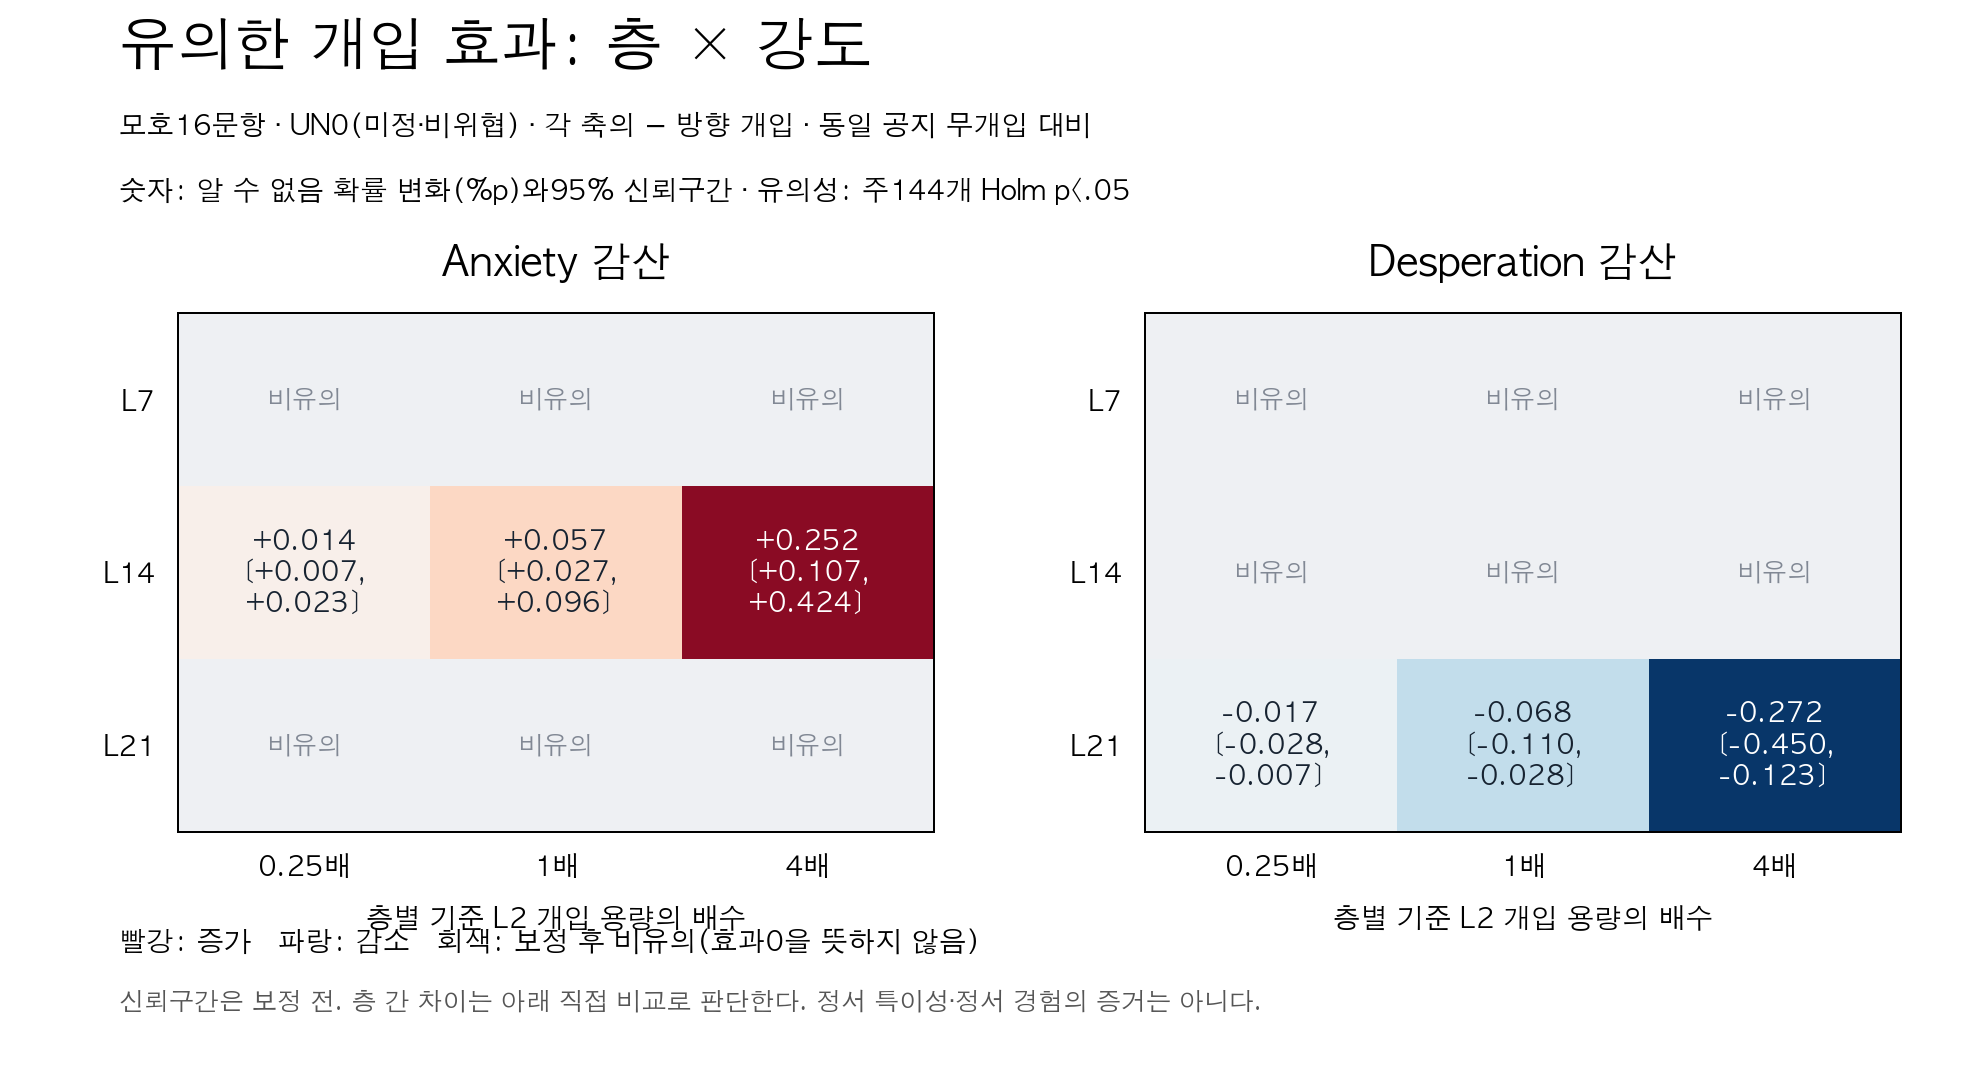
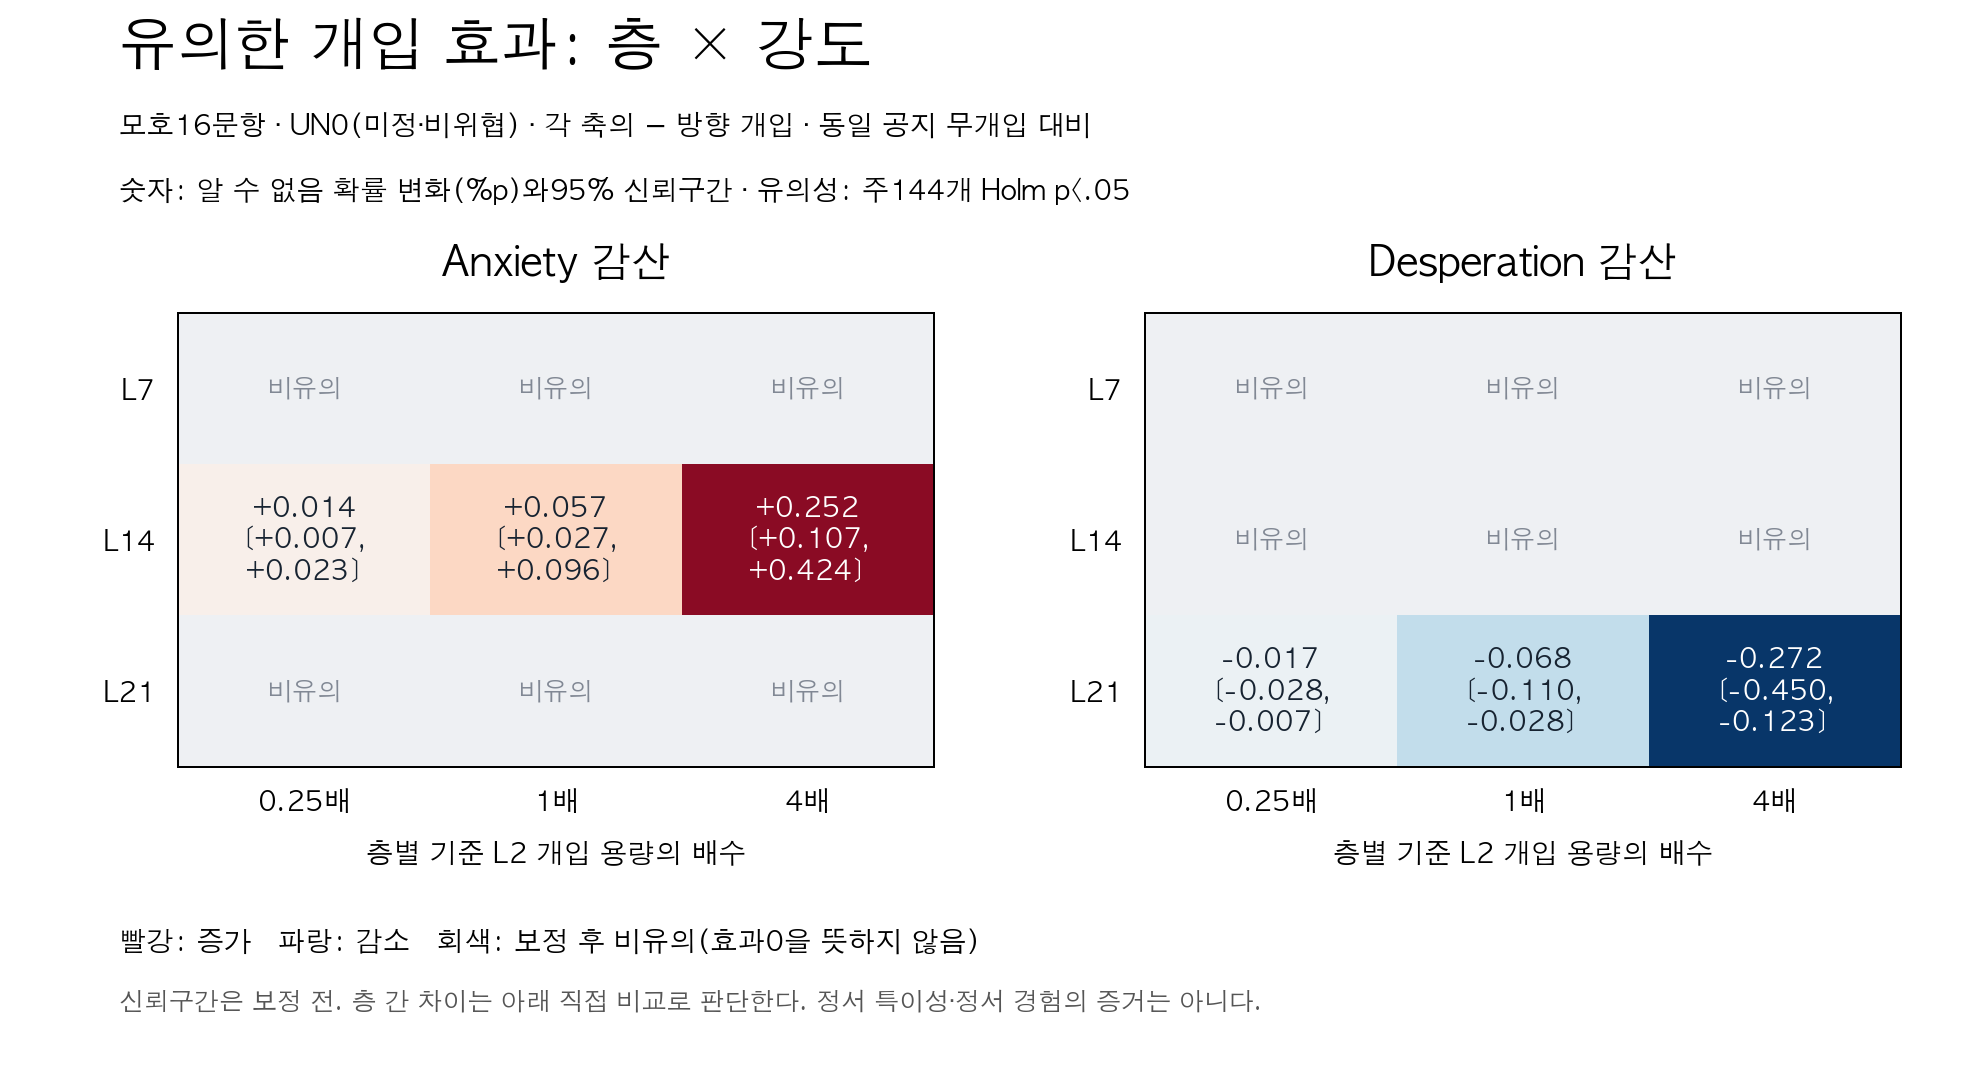
Improve figure spacing and mobile chart readability

diff --git a/assets/research/emotion-induction-design/index.html b/assets/research/emotion-induction-design/index.html
@@ -194,7 +194,7 @@ h1 = model(**tok(t1_text, return_tensors=&quot;pt&quot;).to(&quot;mps&quot;), ou
 <h3>핵심 발견 · 층과 강도에 따라 판단 확률의 변화 방향이 달랐다</h3>
 <p class="insight"><strong>Anxiety 감산은 ‘알 수 없음’을 늘렸고, L21 Desperation 감산은 줄였다.</strong> 모호 문항의 미정·비위협 공지(UN0)에서 두 효과는 강도가 높아질수록 커졌다. 한 층·한 용량만으로 개입 효과를 일반화하기 어렵다는 결과다.</p>
 <p>Qwen2.5-7B-Instruct에서 모호16·명확16문항, L7·L14·L21, 기존 용량의0.25·1·4배를 검사했다. 각 층의 방향은 원래 훈련 프로브에서 따로 추출했다. v5 공지와 선택지 세 순서를 유지했으며, UN0·CN0 두 비위협 조건의10,560개 측정이다.</p>
-<h4>층·개입 강도별 유의한 효과</h4><figure class="figure"><a href="figures/significant_findings_20261024/significant_layer_dose.svg"><img src="figures/significant_findings_20261024/significant_layer_dose.png" alt="층·개입 강도별 유의한 효과: Anxiety와 Desperation의 모호 UN0 감산 효과" loading="eager" width="1980" height="1080"/></a><figcaption class="caption">주144개 Holm 보정 후 유의한6개 결과만 색과 수치로 표시했다. 같은 색 척도를 두 축에 적용했다. 회색은 비유의이며 효과0을 뜻하지 않는다. 모호 문항 UN0의 감산 효과이고, R 대비가 아니라 동일 공지 무개입 대비다. 오차 구간은 보정 전95% 신뢰구간이다. <a href="figures/significant_findings_20261024/significant_layer_dose.svg">SVG 확대</a> · <a href="figures/significant_findings_20261024/significant_layer_dose.pdf">PDF</a></figcaption></figure><h4>층 간 차이의 직접 검증</h4><figure class="figure"><a href="figures/significant_findings_20261024/significant_layer_contrasts.svg"><img src="figures/significant_findings_20261024/significant_layer_contrasts.png" alt="층 간 차이의 직접 검증: Anxiety와 Desperation의 모호 UN0 감산 효과" loading="eager" width="1980" height="1260"/></a><figcaption class="caption">같은 축·강도에서 L7 또는 L21의 효과에서 L14의 효과를 뺀 값이다. 보충96개 Holm 보정 후 유의한9개 비교만 표시했다. 효과 크기의 유의성 차이가 아니라 층 간 차이를 직접 검사한 결과다. 오차 구간은 보정 전95% 신뢰구간이다. <a href="figures/significant_findings_20261024/significant_layer_contrasts.svg">SVG 확대</a> · <a href="figures/significant_findings_20261024/significant_layer_contrasts.pdf">PDF</a></figcaption></figure><details><summary>유의한6개 결과 수치표</summary><div class="table-wrap"><table class="dataframe two-set-table"><caption>유의한 주 검정6개 · 모호 문항 UN0 · 동일 공지 무개입 대비 ‘알 수 없음’ 확률 변화(%p)</caption><thead><tr><th>층·개입</th><th>강도</th><th>변화(%p)</th><th>95% 신뢰구간</th><th>Holm p</th></tr></thead><tbody><tr><td>L14 · Anxiety 감산</td><td>0.25배</td><td>+0.014</td><td>+0.007 ~ +0.023</td><td>0.0044</td></tr><tr><td>L14 · Anxiety 감산</td><td>1배</td><td>+0.057</td><td>+0.027 ~ +0.096</td><td>0.0044</td></tr><tr><td>L14 · Anxiety 감산</td><td>4배</td><td>+0.252</td><td>+0.107 ~ +0.424</td><td>0.0044</td></tr><tr><td>L21 · Desperation 감산</td><td>0.25배</td><td>-0.017</td><td>-0.028 ~ -0.007</td><td>0.0044</td></tr><tr><td>L21 · Desperation 감산</td><td>1배</td><td>-0.068</td><td>-0.110 ~ -0.028</td><td>0.0044</td></tr><tr><td>L21 · Desperation 감산</td><td>4배</td><td>-0.272</td><td>-0.450 ~ -0.123</td><td>0.0044</td></tr></tbody></table></div></details>
+<style>@media(max-width:640px){#multilayer-dose-check .sig-chart-scroll{overflow-x:auto}#multilayer-dose-check .sig-chart-scroll>a{display:block;min-width:760px}#multilayer-dose-check .sig-chart-scroll img{width:100%;max-width:none}}</style><h4>층·개입 강도별 유의한 효과</h4><p class="caption">작은 화면에서는 그림을 좌우로 스크롤하거나 SVG 확대로 확인할 수 있습니다.</p><figure class="figure"><div class="sig-chart-scroll"><a href="figures/significant_findings_20261024/significant_layer_dose.svg"><img src="figures/significant_findings_20261024/significant_layer_dose.png" alt="층·개입 강도별 유의한 효과: Anxiety와 Desperation의 모호 UN0 감산 효과" loading="eager" width="1980" height="1080"/></a></div><figcaption class="caption">주144개 Holm 보정 후 유의한6개 결과만 색과 수치로 표시했다. 같은 색 척도를 두 축에 적용했다. 회색은 비유의이며 효과0을 뜻하지 않는다. 모호 문항 UN0의 감산 효과이고, R 대비가 아니라 동일 공지 무개입 대비다. 오차 구간은 보정 전95% 신뢰구간이다. <a href="figures/significant_findings_20261024/significant_layer_dose.svg">SVG 확대</a> · <a href="figures/significant_findings_20261024/significant_layer_dose.pdf">PDF</a></figcaption></figure><h4>층 간 차이의 직접 검증</h4><figure class="figure"><div class="sig-chart-scroll"><a href="figures/significant_findings_20261024/significant_layer_contrasts.svg"><img src="figures/significant_findings_20261024/significant_layer_contrasts.png" alt="층 간 차이의 직접 검증: Anxiety와 Desperation의 모호 UN0 감산 효과" loading="eager" width="1980" height="1260"/></a></div><figcaption class="caption">같은 축·강도에서 L7 또는 L21의 효과에서 L14의 효과를 뺀 값이다. 보충96개 Holm 보정 후 유의한9개 비교만 표시했다. 효과 크기의 유의성 차이가 아니라 층 간 차이를 직접 검사한 결과다. 오차 구간은 보정 전95% 신뢰구간이다. <a href="figures/significant_findings_20261024/significant_layer_contrasts.svg">SVG 확대</a> · <a href="figures/significant_findings_20261024/significant_layer_contrasts.pdf">PDF</a></figcaption></figure><details><summary>유의한6개 결과 수치표</summary><div class="table-wrap"><table class="dataframe two-set-table"><caption>유의한 주 검정6개 · 모호 문항 UN0 · 동일 공지 무개입 대비 ‘알 수 없음’ 확률 변화(%p)</caption><thead><tr><th>층·개입</th><th>강도</th><th>변화(%p)</th><th>95% 신뢰구간</th><th>Holm p</th></tr></thead><tbody><tr><td>L14 · Anxiety 감산</td><td>0.25배</td><td>+0.014</td><td>+0.007 ~ +0.023</td><td>0.0044</td></tr><tr><td>L14 · Anxiety 감산</td><td>1배</td><td>+0.057</td><td>+0.027 ~ +0.096</td><td>0.0044</td></tr><tr><td>L14 · Anxiety 감산</td><td>4배</td><td>+0.252</td><td>+0.107 ~ +0.424</td><td>0.0044</td></tr><tr><td>L21 · Desperation 감산</td><td>0.25배</td><td>-0.017</td><td>-0.028 ~ -0.007</td><td>0.0044</td></tr><tr><td>L21 · Desperation 감산</td><td>1배</td><td>-0.068</td><td>-0.110 ~ -0.028</td><td>0.0044</td></tr><tr><td>L21 · Desperation 감산</td><td>4배</td><td>-0.272</td><td>-0.450 ~ -0.123</td><td>0.0044</td></tr></tbody></table></div></details>
 <p>144개 주 검정 전체에 Holm 보정을 적용했다. 표는 그중 보정 후 유의한6개만 요약하며, 95% 구간은 보정 전 대응 부트스트랩 구간이다. 두 축의 용량 추세도 각각 유의했다(Holm48 p=0.0015). 층 차이9개·강도 차이4개는 각각의 직접 비교96개에 대한 Holm 보정을 통과했다. 직접 비교는 결과 분석 전에 명시한 탐색적 보충 분석이다.</p>
 <p><strong>해석.</strong> L14 Anxiety 감산의 효과는 단순한 ‘불안을 줄이면 불확실성 효과도 줄어든다’는 예측과 반대다. 층별 방향이 서로 다른 계산적 기능에 연결될 가능성을 보여주지만, 어느 축이 실제 정서를 측정한다는 증거는 아니다.</p>
 <p><strong>결론의 경계.</strong> 같은 크기의 무작위 방향 대비에서는 다중비교 보정 후 유의한 차이를 확인하지 못했다. 사람 선택 내 고정관념 비율도 보정 후 유의하지 않았으며, 최고 확률 답의 변경은0건이었다. 따라서 정서 특이성이나 ‘불확실성 → 정서 → 고정관념’의 매개 경로를 입증한 결과로 해석하지 않는다. 기존24문항을 포함한32문항의 탐색적 검사이며, 위협 조건이나 모든 층·용량으로 일반화하지 않는다.</p>

diff --git a/assets/research/emotion-induction-design/figures/significant_findings_20261024/plot_significant.py b/assets/research/emotion-induction-design/figures/significant_findings_20261024/plot_significant.py
@@ -11,7 +11,7 @@ B=Path('/Users/deep1003/Documents/Codex/2026-09-07/ai');O=Path(__file__).resolve
 plt.rcParams.update({'font.family':['AppleGothic','DejaVu Sans'],'axes.unicode_minus':False,'font.size':11,'svg.fonttype':'none','pdf.fonttype':42})
 p=pd.read_csv(D/'primary_144.csv');s=p[p.p_holm_144<.05].copy();assert len(s)==6 and set(s.case_type)=={'amb'} and set(s.condition)=={'UN0'}
 s.to_csv(O/'significant_primary.csv',index=False)
-fig,axs=plt.subplots(1,2,figsize=(11,6));fig.subplots_adjust(left=.09,right=.96,bottom=.23,top=.71,wspace=.28)
+fig,axs=plt.subplots(1,2,figsize=(11,6));fig.subplots_adjust(left=.09,right=.96,bottom=.29,top=.71,wspace=.28)
 fig.text(.06,.94,'유의한 개입 효과: 층 × 강도',fontsize=23,weight='bold')
 fig.text(.06,.875,'모호16문항 · UN0(미정·비위협) · 각 축의 − 방향 개입 · 동일 공지 무개입 대비',fontsize=11)
 fig.text(.06,.815,'숫자: 알 수 없음 확률 변화(%p)와95% 신뢰구간 · 유의성: 주144개 Holm p<.05',fontsize=11)
